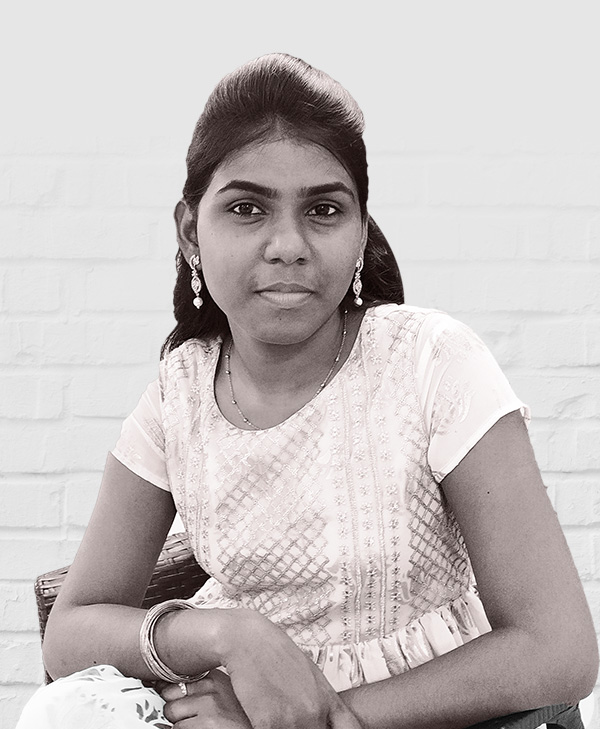
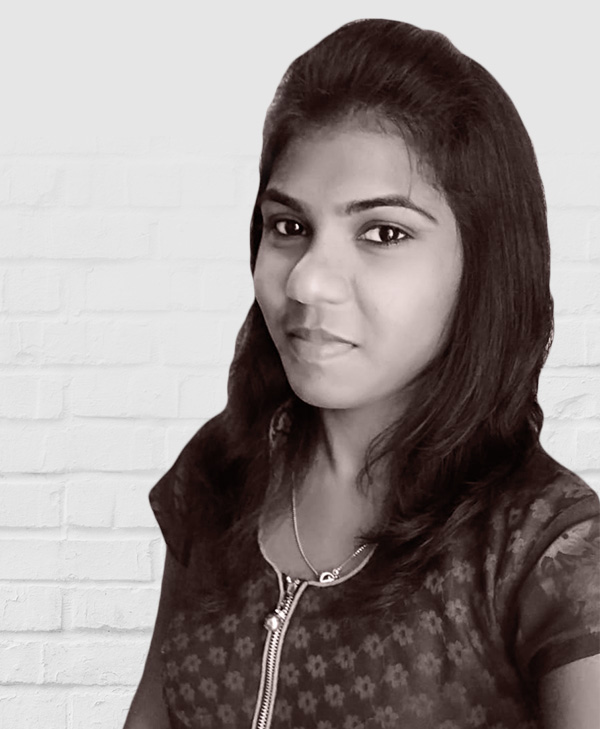
placed new set of team images

diff --git a/team.html b/team.html
@@ -146,7 +146,7 @@
 					<div class="col-md-3 animate-box">
 						<div class="">
 							<div class="item">
-								<img style="box-shadow: 25px 25px 30px #d9d9d9;" class="img-responsive about-img" src="images/team.jpg" alt="html5 bootstrap template by colorlib.com">
+								<img style="box-shadow: 25px 25px 30px #d9d9d9;" class="img-responsive about-img" src="images/alex.jpg" alt="html5 bootstrap template by colorlib.com">
 							</div>
 						</div>
 					</div>
@@ -342,7 +342,7 @@
 					<div class="col-md-3 animate-box">
 						<div class="">
 							<div class="item">
-								<img style="box-shadow: 25px 25px 30px #d9d9d9;" class="img-responsive about-img" src="images/team2.jpg" alt="html5 bootstrap template by colorlib.com">
+								<img style="box-shadow: 25px 25px 30px #d9d9d9;" class="img-responsive about-img" src="images/melba.jpg" alt="html5 bootstrap template by colorlib.com">
 							</div>
 						</div>
 					</div>
